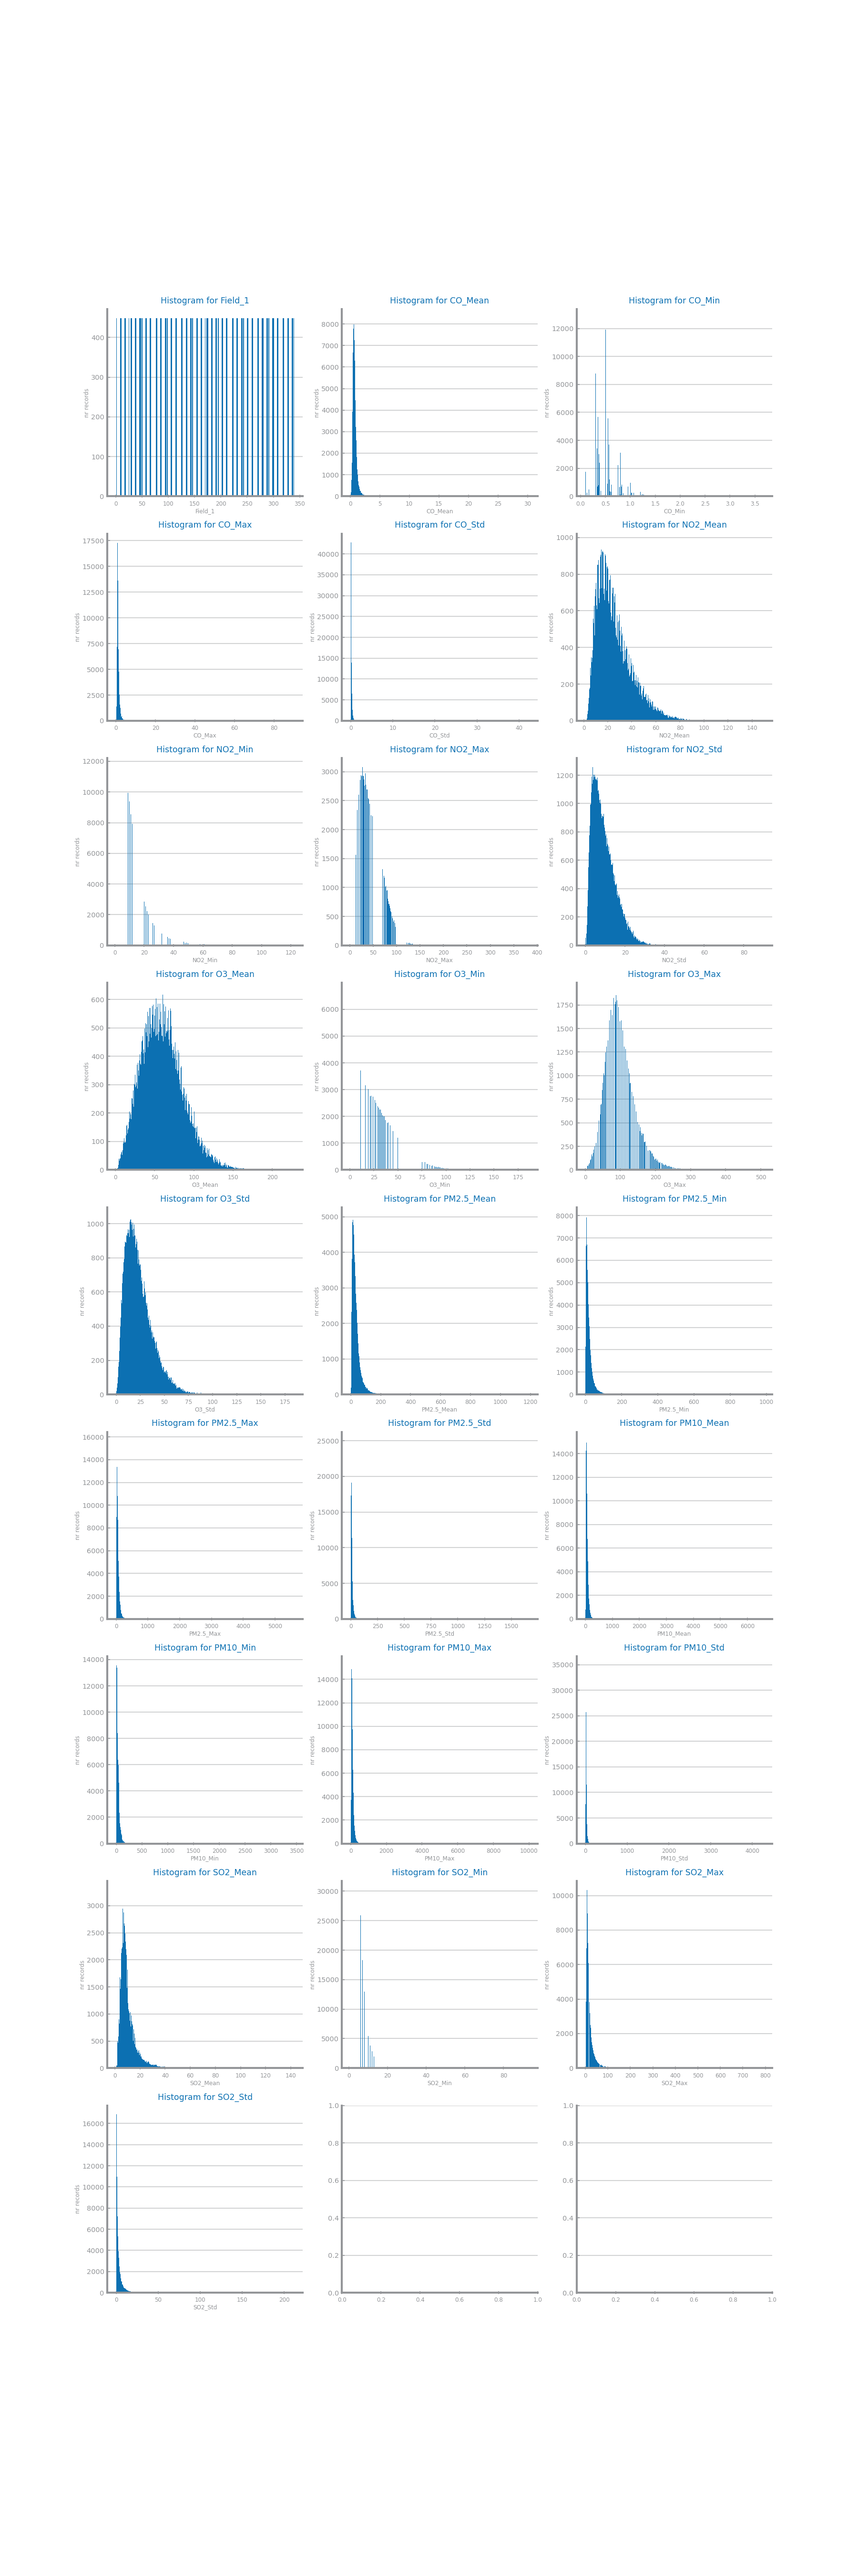
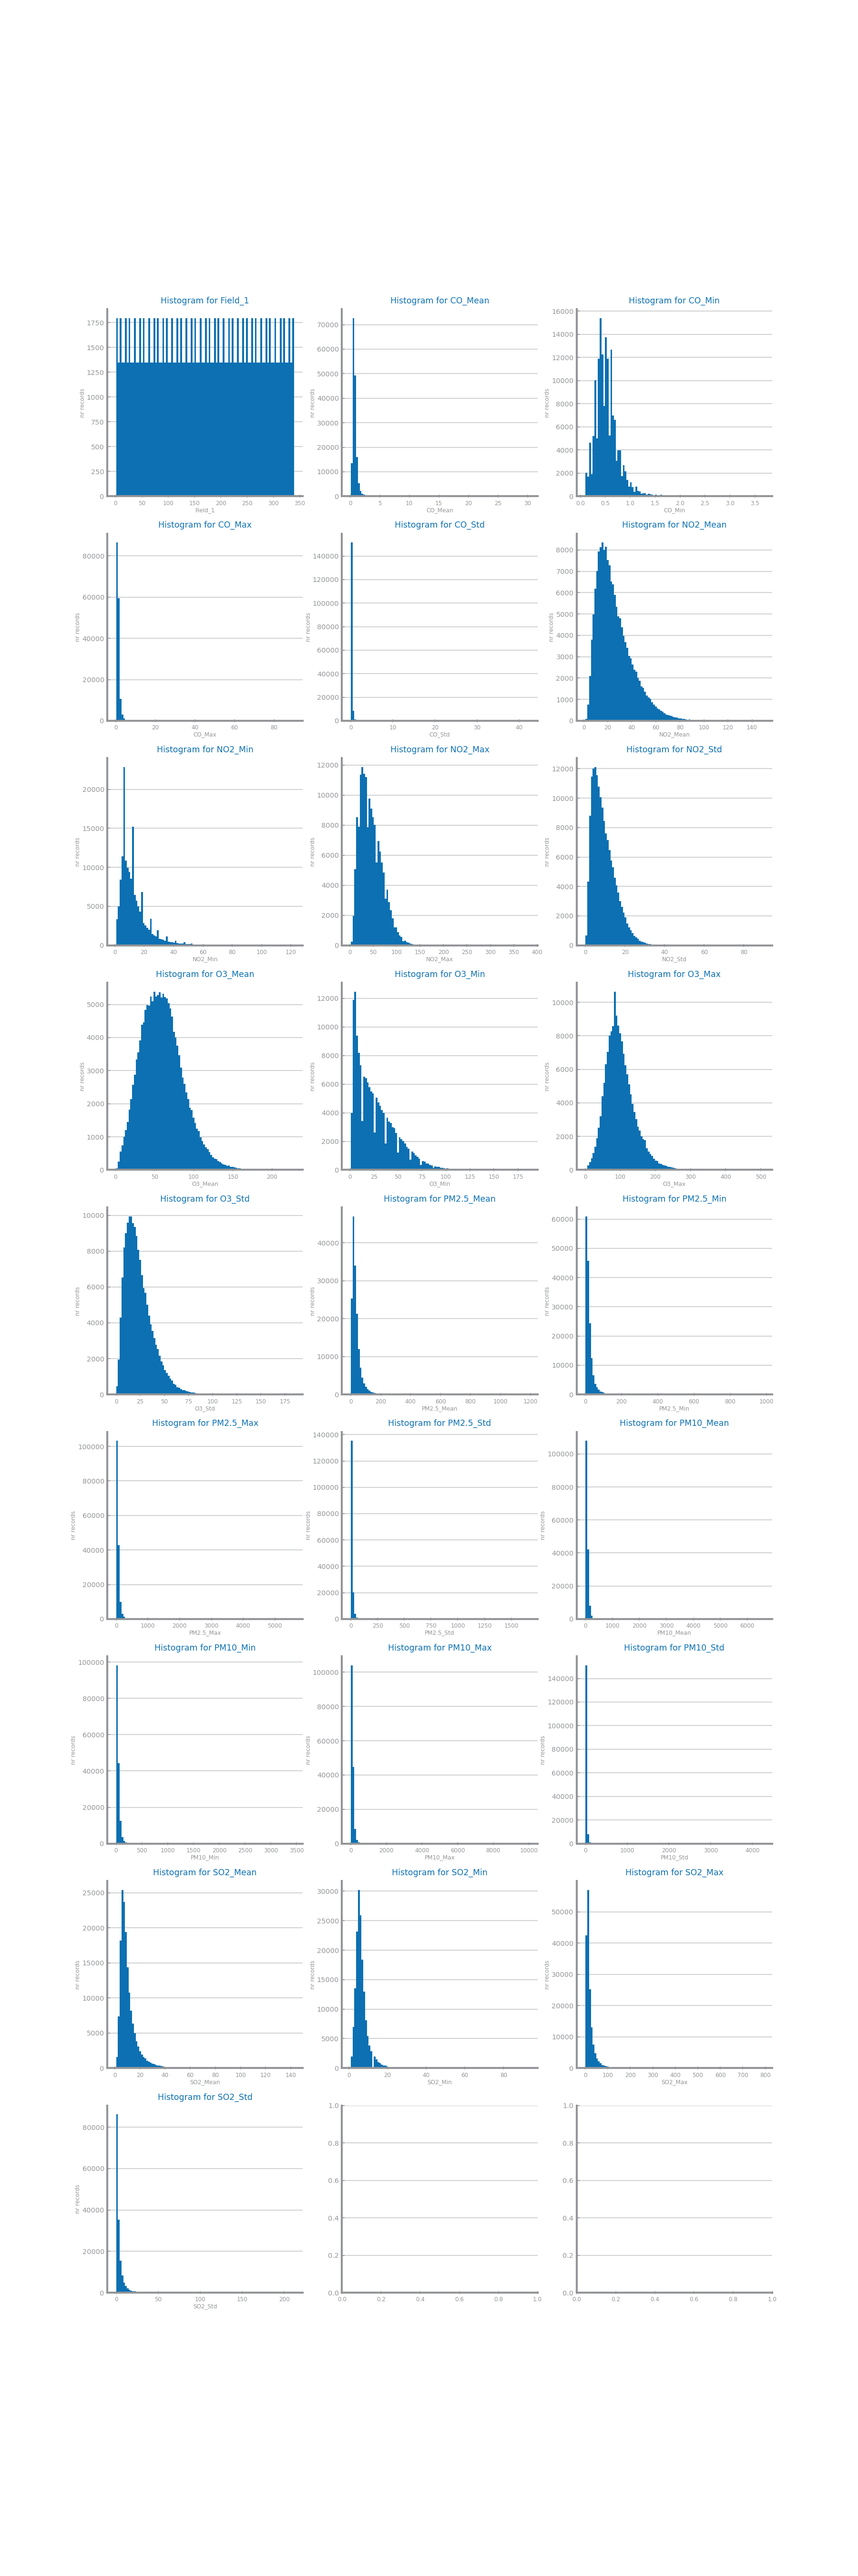
Finished all graphs for granularity and sparsity.

diff --git a/lab01_data_profiling/set2_data_distribution_sample.py b/lab01_data_profiling/set2_data_distribution_sample.py
@@ -1,0 +1,152 @@
+from pandas import read_csv
+from pandas.plotting import register_matplotlib_converters
+from pandas import Series
+from matplotlib.pyplot import savefig, show, subplots, figure, Axes
+from ds_charts import get_variable_types, multiple_bar_chart, choose_grid, HEIGHT, multiple_line_chart, bar_chart
+from seaborn import distplot
+from scipy.stats import norm, expon, lognorm
+from numpy import log
+
+
+#Load data
+register_matplotlib_converters()
+filename = 'lab01_data_profiling/data/set2_air_quality_tabular.csv'
+data = read_csv(filename, index_col='date', na_values='', parse_dates=True, infer_datetime_format=True)
+
+#Take random sample of 100
+data.sample(n=100, random_state=1)
+
+#Show details about range, min, max etc.
+print(data.describe())
+
+#Charts with details about numeric data in one chart
+data.boxplot(rot=45)
+savefig('lab01_data_profiling/images/data_distribution_set2_numeric_data_details.png')
+
+#Charts with details about single numeric
+numeric_vars = get_variable_types(data)['Numeric']
+if [] == numeric_vars:
+    raise ValueError('There are no numeric variables.')
+rows, cols = choose_grid(len(numeric_vars))
+fig, axs = subplots(rows, cols, figsize=(cols*HEIGHT, rows*HEIGHT), squeeze=False)
+i, j = 0, 0
+for n in range(len(numeric_vars)):
+    axs[i, j].set_title('Boxplot for %s'%numeric_vars[n])
+    axs[i, j].boxplot(data[numeric_vars[n]].dropna().values)
+    i, j = (i + 1, 0) if (n+1) % cols == 0 else (i, j + 1)
+savefig('lab01_data_profiling/images/data_distribution_set2_single_numeric_data_details.png')
+show()
+
+
+#Chart with numbers of outliers
+NR_STDEV: int = 2
+
+numeric_vars = get_variable_types(data)['Numeric']
+if [] == numeric_vars:
+    raise ValueError('There are no numeric variables.')
+
+outliers_iqr = []
+outliers_stdev = []
+summary_5 = data.describe(include='number')
+
+for var in numeric_vars:
+    iqr = 1.5 * (summary_5[var].quantile(q=0.75) - summary_5[var].quantile(q=0.25))
+    outliers_iqr += [
+        data[data[var] > summary_5[var].quantile(q=0.75) + iqr].count()[var] +
+        data[data[var] < summary_5[var].quantile(q=0.25) - iqr].count()[var]]
+    std = NR_STDEV * summary_5[var].std()
+    outliers_stdev += [
+        data[data[var] > summary_5[var].mean() + std].count()[var] +
+        data[data[var] < summary_5[var].mean() - std].count()[var]]
+
+outliers = {'iqr': outliers_iqr, 'stdev': outliers_stdev}
+figure(figsize=(12, HEIGHT))
+multiple_bar_chart(numeric_vars, outliers, title='Nr of outliers per variable', xlabel='variables', ylabel='nr outliers', percentage=False)
+savefig('lab01_data_profiling/images/data_distribution_set2_outliers.png')
+show()
+
+
+#Histrograms with number of outliers
+numeric_vars = get_variable_types(data)['Numeric']
+if [] == numeric_vars:
+    raise ValueError('There are no numeric variables.')
+
+fig, axs = subplots(rows, cols, figsize=(cols*HEIGHT, rows*HEIGHT), squeeze=False)
+i, j = 0, 0
+for n in range(len(numeric_vars)):
+    axs[i, j].set_title('Histogram for %s'%numeric_vars[n])
+    axs[i, j].set_xlabel(numeric_vars[n])
+    axs[i, j].set_ylabel("nr records")
+    axs[i, j].hist(data[numeric_vars[n]].dropna().values, 'auto')
+    i, j = (i + 1, 0) if (n+1) % cols == 0 else (i, j + 1)
+savefig('lab01_data_profiling/images/data_distribution_set2_single_histograms_numeric.png')
+show()
+
+
+#Histograms with trends
+numeric_vars = get_variable_types(data)['Numeric']
+if [] == numeric_vars:
+    raise ValueError('There are no numeric variables.')
+
+fig, axs = subplots(rows, cols, figsize=(cols*HEIGHT, rows*HEIGHT), squeeze=False)
+i, j = 0, 0
+for n in range(len(numeric_vars)):
+    axs[i, j].set_title('Histogram with trend for %s'%numeric_vars[n])
+    distplot(data[numeric_vars[n]].dropna().values, norm_hist=True, ax=axs[i, j], axlabel=numeric_vars[n])
+    i, j = (i + 1, 0) if (n+1) % cols == 0 else (i, j + 1)
+savefig('lab01_data_profiling/images/data_distribution_set2_histograms_trend_numeric.png')
+show()
+
+
+#Histograms with distribution
+def compute_known_distributions(x_values: list) -> dict:
+    distributions = dict()
+    # Gaussian
+    mean, sigma = norm.fit(x_values)
+    distributions['Normal(%.1f,%.2f)'%(mean,sigma)] = norm.pdf(x_values, mean, sigma)
+    # Exponential
+    loc, scale = expon.fit(x_values)
+    distributions['Exp(%.2f)'%(1/scale)] = expon.pdf(x_values, loc, scale)
+    # LogNorm
+    sigma, loc, scale = lognorm.fit(x_values)
+    distributions['LogNor(%.1f,%.2f)'%(log(scale),sigma)] = lognorm.pdf(x_values, sigma, loc, scale)
+    return distributions
+
+def histogram_with_distributions(ax: Axes, series: Series, var: str):
+    values = series.sort_values().values
+    ax.hist(values, 20, density=True)
+    distributions = compute_known_distributions(values)
+    multiple_line_chart(values, distributions, ax=ax, title='Best fit for %s'%var, xlabel=var, ylabel='')
+
+numeric_vars = get_variable_types(data)['Numeric']
+if [] == numeric_vars:
+    raise ValueError('There are no numeric variables.')
+
+fig, axs = subplots(rows, cols, figsize=(cols*HEIGHT, rows*HEIGHT), squeeze=False)
+i, j = 0, 0
+for n in range(len(numeric_vars)):
+    histogram_with_distributions(axs[i, j], data[numeric_vars[n]].dropna(), numeric_vars[n])
+    i, j = (i + 1, 0) if (n+1) % cols == 0 else (i, j + 1)
+savefig('lab01_data_profiling/images/data_distribution_set2_histogram_numeric_distribution.png')
+show()
+
+#Historgrams for symbolic variables
+symbolic_vars = get_variable_types(data)['Symbolic']
+if [] == symbolic_vars:
+    raise ValueError('There are no symbolic variables.')
+
+rows, cols = choose_grid(len(symbolic_vars))
+fig, axs = subplots(rows, cols, figsize=(cols*HEIGHT, rows*HEIGHT), squeeze=False)
+i, j = 0, 0
+for n in range(len(symbolic_vars)):
+    counts = data[symbolic_vars[n]].value_counts()
+    bar_chart(list(counts.index), list(counts.values), ax=axs[i, j], title='Histogram for %s'%symbolic_vars[n], xlabel=symbolic_vars[n], ylabel='nr records', percentage=False)
+    i, j = (i + 1, 0) if (n+1) % cols == 0 else (i, j + 1)
+
+savefig('lab01_data_profiling/images/data_distribution_set2_histograms_symbolic.png')
+show()
+
+
+
+
+

diff --git a/lab01_data_profiling/set2_data_granularity.py b/lab01_data_profiling/set2_data_granularity.py
@@ -2,6 +2,7 @@
 # Make a choice of bins or adjust scale
 # What is the goal of this granularity thing --> find out! 
 # Write report
+# Different amounts of bars
 
 
 
@@ -27,7 +28,27 @@ for n in range(len(variables)):
     axs[i, j].set_title('Histogram for %s'%variables[n])
     axs[i, j].set_xlabel(variables[n])
     axs[i, j].set_ylabel('nr records')
-    axs[i, j].hist(data[variables[n]].values, bins=1000)
+    axs[i, j].hist(data[variables[n]].values, bins=100)
     i, j = (i + 1, 0) if (n+1) % cols == 0 else (i, j + 1)
 savefig('lab01_data_profiling\images\granularity_single_set2.png')
+show()
+
+from ds_charts import get_variable_types, HEIGHT
+from matplotlib.pyplot import subplots, savefig, show
+
+variables = get_variable_types(data)['Numeric']
+if [] == variables:
+    raise ValueError('There are no numeric variables.')
+
+rows = len(variables)
+bins = (10, 100, 1000)
+cols = len(bins)
+fig, axs = subplots(rows, cols, figsize=(cols*HEIGHT, rows*HEIGHT), squeeze=False)
+for i in range(rows):
+    for j in range(cols):
+        axs[i, j].set_title('Histogram for %s %d bins'%(variables[i], bins[j]))
+        axs[i, j].set_xlabel(variables[i])
+        axs[i, j].set_ylabel('Nr records')
+        axs[i, j].hist(data[variables[i]].values, bins=bins[j])
+savefig('lab01_data_profiling\images\granularity_study_set2.png')
 show()

diff --git a/lab01_data_profiling/set1_data_sparsity.py b/lab01_data_profiling/set1_data_sparsity.py
@@ -8,7 +8,13 @@ register_matplotlib_converters()
 filename = 'lab01_data_profiling\data\set1_NYC_collisions_tabular.csv'
 data = read_csv(filename, index_col='CRASH_DATE', parse_dates=True, infer_datetime_format=True)
 
+print(data.head())
+
 numeric_vars = get_variable_types(data)['Numeric']
+print(numeric_vars)
+numeric_vars = ['CRASH_TIME', 'PERSON_AGE', 'VEHICLE_ID']
+not_working = ['CRASH_DATE']
+#these now contain only person age and vehicle id, is that correct?
 if [] == numeric_vars:
     raise ValueError('There are no numeric variables.')
 
@@ -28,7 +34,14 @@ show()
 from matplotlib.pyplot import savefig, show, subplots
 from ds_charts import HEIGHT, get_variable_types
 
+#code error because of nans, give them string
+data.fillna('A',inplace=True)
+
 symbolic_vars = get_variable_types(data)['Symbolic']
+print(symbolic_vars)
+symbolic_vars = ['BODILY_INJURY', 'SAFETY_EQUIPMENT', 'PERSON_SEX', 'PERSON_TYPE', 'PED_LOCATION', 'CONTRIBUTING_FACTOR_2', 'EJECTION', 'COMPLAINT', 'EMOTIONAL_STATUS', 'CONTRIBUTING_FACTOR_1', 'POSITION_IN_VEHICLE', 'PED_ROLE', 'PED_ACTION']
+#symbolic_vars = ['BODILY_INJURY',  'PERSON_SEX', 'PERSON_TYPE', 'PED_ACTION']
+not_working = ['SAFETY_EQUIPMENT',  'PED_LOCATION']
 if [] == symbolic_vars:
     raise ValueError('There are no symbolic variables.')
 

diff --git a/lab01_data_profiling/set2_data_sparsity.py b/lab01_data_profiling/set2_data_sparsity.py
@@ -4,10 +4,12 @@ from matplotlib.pyplot import subplots, savefig, show
 from ds_charts import get_variable_types, HEIGHT
 
 register_matplotlib_converters()
-filename = "lab01_data_profiling/data/set1_NYC_collisions_tabular.csv"
-data = read_csv(filename, index_col='', parse_dates=True, infer_datetime_format=True)
+filename = "lab01_data_profiling/data/set2_air_quality_tabular.csv"
+data = read_csv(filename, index_col='date', parse_dates=True, infer_datetime_format=True)
 
+#choose more numeric variables?
 numeric_vars = get_variable_types(data)['Numeric']
+print(numeric_vars)
 if [] == numeric_vars:
     raise ValueError('There are no numeric variables.')
 
@@ -27,7 +29,11 @@ show()
 from matplotlib.pyplot import savefig, show, subplots
 from ds_charts import HEIGHT, get_variable_types
 
-symbolic_vars = get_variable_types(data)['Symbolic']
+
+# Handpick symbolic variables because Python choses the wrong ones
+#symbolic_vars = get_variable_types(data)['Symbolic']
+symbolic_vars = ['City_EN', 'Prov_EN', 'ALARM']
+
 if [] == symbolic_vars:
     raise ValueError('There are no symbolic variables.')
 

diff --git a/lab01_data_profiling/set1_data_granularity.py b/lab01_data_profiling/set1_data_granularity.py
@@ -22,3 +22,23 @@ for n in range(len(variables)):
     i, j = (i + 1, 0) if (n+1) % cols == 0 else (i, j + 1)
 savefig('lab01_data_profiling\images\granularity_single_set1.png')
 show()
+
+from ds_charts import get_variable_types, HEIGHT
+from matplotlib.pyplot import subplots, savefig, show
+
+variables = get_variable_types(data)['Numeric']
+if [] == variables:
+    raise ValueError('There are no numeric variables.')
+
+rows = len(variables)
+bins = (10, 100, 1000)
+cols = len(bins)
+fig, axs = subplots(rows, cols, figsize=(cols*HEIGHT, rows*HEIGHT), squeeze=False)
+for i in range(rows):
+    for j in range(cols):
+        axs[i, j].set_title('Histogram for %s %d bins'%(variables[i], bins[j]))
+        axs[i, j].set_xlabel(variables[i])
+        axs[i, j].set_ylabel('Nr records')
+        axs[i, j].hist(data[variables[i]].values, bins=bins[j])
+savefig('lab01_data_profiling\images\granularity_study_set2.png')
+show()
